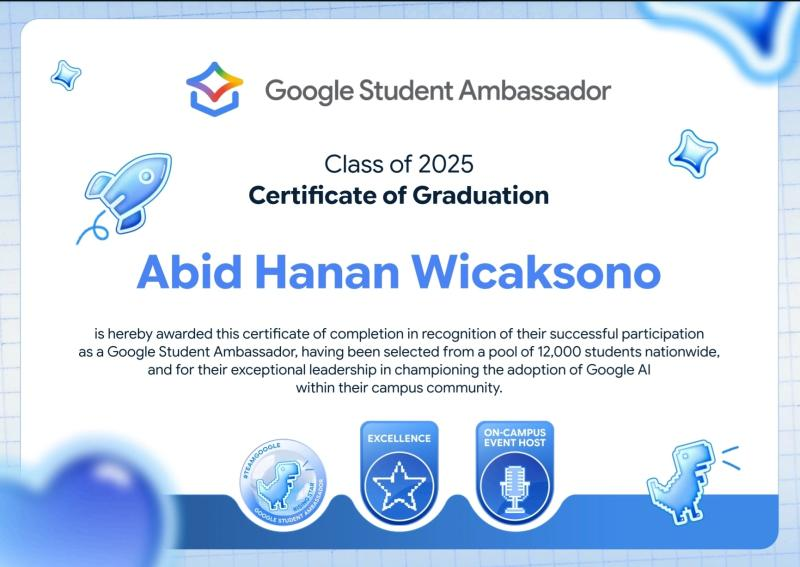
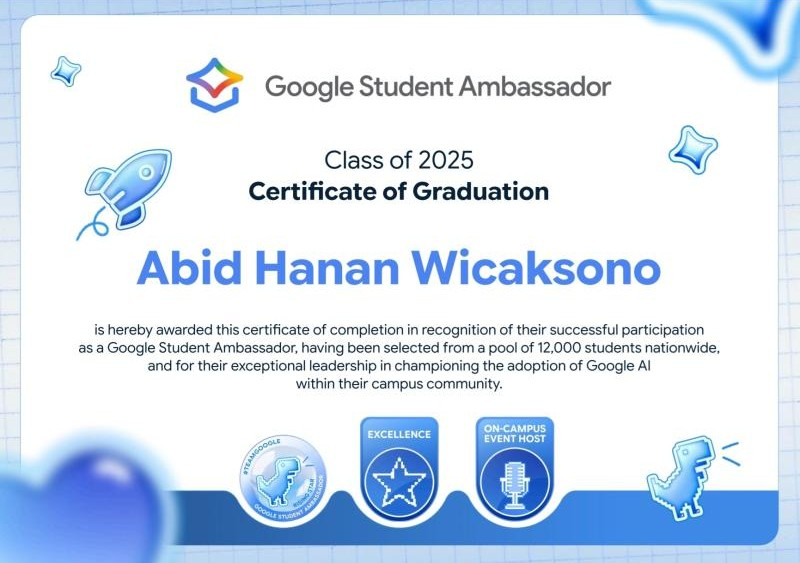
Shorten all certificate copy; fix graduation crop; re-animate on scroll
- Certificates: trim every certificate description (EN + ID) so none overflow
  the card's 3-line clamp.
- Fix the Certificate of Graduation image: crop the stray black strip along
  the top edge.
- Career: change Helden Inc, Helden HQ and Maua AI from Part-time to Contract
  (Kontrak in ID).
- Scroll reveal: toggle the animation both ways so every section's boxes
  re-animate whenever they re-enter the viewport, scrolling up or down.

diff --git a/app/lib/portfolio-data.ts b/app/lib/portfolio-data.ts
@@ -117,7 +117,7 @@ export const careerItems: CareerItem[] = [
   {
     period: "Jul 2026 - Present",
     role: "Marketing & Developer",
-    company: "Helden Inc - Part-time",
+    company: "Helden Inc - Contract",
     companyLogo: "/logo-helden-inc.png",
     desc: "Driving marketing initiatives and building digital products for Helden Inc, a studio crafting gamified experiences for internal communication, blending growth-focused campaigns with hands-on development.",
     highlights: ["Marketing", "Development", "Gamification"],
@@ -125,7 +125,7 @@ export const careerItems: CareerItem[] = [
   {
     period: "Jul 2026 - Present",
     role: "Marketing & Developer",
-    company: "Helden HQ - Part-time",
+    company: "Helden HQ - Contract",
     companyLogo: "/logo-heldenhq.svg",
     logoPadded: true,
     desc: "Supporting Helden HQ as marketing and developer, handling the technology behind trainers' businesses so they can focus on teaching, while running campaigns that grow their reach.",
@@ -134,7 +134,7 @@ export const careerItems: CareerItem[] = [
   {
     period: "Jul 2026 - Present",
     role: "Marketing & Developer",
-    company: "Maua AI - Part-time",
+    company: "Maua AI - Contract",
     companyLogo: "/logo-maua.svg",
     desc: "Working as marketing and developer at Maua AI, a team that takes over digital work, building apps and automations while driving social media growth for clients.",
     highlights: ["AI automation", "App development", "Social growth"],
@@ -233,7 +233,7 @@ export const certificateItems = [
     issued: "Issued May 2026",
     credentialId: "Associate",
     image: "/certificate-web3-university-tour-coinversity.jpg",
-    desc: "In recognition of the role as Associate for the Web3 University Tour, contributing to the successful execution of program activities and supporting the coordination of event initiatives.",
+    desc: "Associate for the Web3 University Tour, supporting program activities and event coordination.",
   },
   {
     title: "Best GPA Achievement 3.97/4.00",
@@ -242,7 +242,7 @@ export const certificateItems = [
     issued: "Issued Feb 2026",
     credentialId: "6/STF/02/2026",
     image: "/certificate-best-gpa.jpg",
-    desc: "Best GPA Achievement certificate for the Computer Science Program, Faculty of Technology, Law, and Business, Sugeng Hartono University, Odd Semester 2025/2026.",
+    desc: "Best GPA Achievement for the Computer Science Program, Sugeng Hartono University (2025/2026).",
   },
   {
     title: "Sui Developer Workshop",
@@ -251,7 +251,7 @@ export const certificateItems = [
     issued: "Certificate Workshop Completion",
     credentialId: "Modules 1-5",
     image: "/certificate-sui-workshop.jpg",
-    desc: "For successfully completing the Sui Developer Workshop modules 1-5, including foundational concepts, hands-on development, and practical implementation within the Sui ecosystem.",
+    desc: "Completed Sui Developer Workshop modules 1-5, covering core concepts and hands-on Sui development.",
   },
   {
     title: "Data Science Course",
@@ -260,7 +260,7 @@ export const certificateItems = [
     issued: "Issued Jan 2026",
     credentialId: "2026/250/57666",
     image: "/certificate-data-science-bisa-ai.jpg",
-    desc: "Data Science certificate from BISA AI Academy for completing a free class with Data Science learning material.",
+    desc: "Data Science certificate from BISA AI Academy for completing a Data Science class.",
   },
   {
     title: "IDEONIC 2026",
@@ -269,7 +269,7 @@ export const certificateItems = [
     issued: "Issued Jan 2026",
     credentialId: "Certificate of Participation",
     image: "/certificate-ideonic-2026.jpg",
-    desc: "Certificate of Participation for joining IDEONIC 2026 International Competition \"Inspiring Ideas, Shaping the Future\" organized by Mercu Buana University (UMB), Jakarta, Indonesia.",
+    desc: "Participant in IDEONIC 2026 International Competition, organized by Mercu Buana University, Jakarta.",
   },
   {
     title: "Certificate of Graduation",
@@ -278,7 +278,7 @@ export const certificateItems = [
     issued: "Google Student Ambassador",
     credentialId: "Class of 2025",
     image: "/certificate-google-student-ambassador.jpg",
-    desc: "Certificate of completion for successful participation as a Google Student Ambassador, selected from a pool of 12,000 students nationwide, and for exceptional leadership in championing the adoption of Google AI within the campus community.",
+    desc: "Google Student Ambassador, selected from 12,000 students for championing Google AI on campus.",
   },
   {
     title: "Gemini Certified Student",
@@ -287,7 +287,7 @@ export const certificateItems = [
     issued: "Issued Oct 2025",
     credentialId: "Expires Oct 2028",
     image: "/certificate-gemini-certified-student.jpg",
-    desc: "Certificate Gemini Student for having demonstrated the knowledge, skills, and basic competencies needed to use Google AI.",
+    desc: "Gemini Certified Student, demonstrating the knowledge and skills needed to use Google AI.",
   },
   {
     title: "Konco Konco Ngonten",
@@ -350,7 +350,7 @@ export const certificateItems = [
     issued: "Issued Apr 2025",
     credentialId: "Participant",
     image: "/certificate-web3-university-tour-yogyakarta.jpg",
-    desc: "Participant certificate for Web3 University Tour Yogyakarta, an educational seminar organized by Binance Academy, Tokocrypto, and Coinvestasi.",
+    desc: "Participant in Web3 University Tour Yogyakarta by Binance Academy, Tokocrypto, and Coinvestasi.",
   },
   {
     title: "Empowering Industries with AI: Strategies for the New Era of Cyber Security",
@@ -359,7 +359,7 @@ export const certificateItems = [
     issued: "Issued Dec 2024",
     credentialId: "65909926-3188-40d5-ad83-730c332585f9",
     image: "/certificate-inixindo-ai-cyber-security.jpg",
-    desc: "Certificate of Attendance for Empowering Industries with AI: Strategies for the New Era of Cyber Security.",
+    desc: "Certificate of Attendance for Empowering Industries with AI in the New Era of Cyber Security.",
   },
 ];
 

diff --git a/app/lib/i18n.ts b/app/lib/i18n.ts
@@ -286,19 +286,19 @@ const educationId: Partial<(typeof educationItems)[number]>[] = [
 const careerId: Partial<(typeof careerItems)[number]>[] = [
   {
     period: "Jul 2026 - Sekarang",
-    company: "Helden Inc - Paruh Waktu",
+    company: "Helden Inc - Kontrak",
     desc: "Menjalankan inisiatif marketing dan membangun produk digital untuk Helden Inc, studio yang menciptakan pengalaman gamifikasi untuk komunikasi internal, memadukan kampanye pertumbuhan dengan pengembangan secara langsung.",
     highlights: ["Marketing", "Pengembangan", "Gamifikasi"],
   },
   {
     period: "Jul 2026 - Sekarang",
-    company: "Helden HQ - Paruh Waktu",
+    company: "Helden HQ - Kontrak",
     desc: "Mendukung Helden HQ sebagai marketing dan developer, menangani teknologi di balik bisnis para trainer agar mereka fokus mengajar, sekaligus menjalankan kampanye untuk memperluas jangkauan.",
     highlights: ["Marketing", "Pengembangan web", "Automasi"],
   },
   {
     period: "Jul 2026 - Sekarang",
-    company: "Maua AI - Paruh Waktu",
+    company: "Maua AI - Kontrak",
     desc: "Bekerja sebagai marketing dan developer di Maua AI, tim yang mengambil alih pekerjaan digital, membangun aplikasi dan automasi sekaligus mendorong pertumbuhan media sosial klien.",
     highlights: ["Automasi AI", "Pengembangan aplikasi", "Pertumbuhan sosial"],
   },
@@ -371,37 +371,37 @@ const certificateId: Partial<(typeof certificateItems)[number]>[] = [
     issuer: "Coinversity",
     issued: "Diterbitkan Mei 2026",
     credentialId: "Associate",
-    desc: "Sebagai pengakuan atas peran sebagai Associate dalam Web3 University Tour, berkontribusi pada keberhasilan pelaksanaan kegiatan program dan mendukung koordinasi inisiatif acara.",
+    desc: "Associate untuk Web3 University Tour, mendukung pelaksanaan kegiatan program dan koordinasi acara.",
   },
   {
     title: "Indeks Prestasi Terbaik 3,97/4,00",
     issuer: "Universitas Sugeng Hartono",
     issued: "Diterbitkan Feb 2026",
-    desc: "Sertifikat Indeks Prestasi Terbaik untuk Program Studi Ilmu Komputer, Fakultas Teknologi, Hukum, dan Bisnis, Universitas Sugeng Hartono, Semester Ganjil 2025/2026.",
+    desc: "Indeks Prestasi Terbaik untuk Program Studi Ilmu Komputer, Universitas Sugeng Hartono (2025/2026).",
   },
   {
     issued: "Sertifikat Penyelesaian Workshop",
-    desc: "Berhasil menyelesaikan Sui Developer Workshop modul 1-5, termasuk konsep dasar, pengembangan langsung, dan implementasi praktis dalam ekosistem Sui.",
+    desc: "Menyelesaikan Sui Developer Workshop modul 1-5, mencakup konsep inti dan pengembangan langsung di ekosistem Sui.",
   },
   {
     issuer: "BISA AI Academy (PT BISA Artifisial Indonesia)",
     issued: "Diterbitkan Jan 2026",
-    desc: "Sertifikat Data Science dari BISA AI Academy karena telah menyelesaikan kelas gratis dengan materi Data Science.",
+    desc: "Sertifikat Data Science dari BISA AI Academy atas penyelesaian kelas Data Science.",
   },
   {
     issuer: "Universitas Mercu Buana",
     issued: "Diterbitkan Jan 2026",
-    desc: "Sertifikat partisipasi IDEONIC 2026 International Competition \"Inspiring Ideas, Shaping the Future\" yang diselenggarakan Universitas Mercu Buana (UMB), Jakarta, Indonesia.",
+    desc: "Peserta IDEONIC 2026 International Competition yang diselenggarakan Universitas Mercu Buana, Jakarta.",
   },
   {
     title: "Certificate of Graduation",
     issued: "Google Student Ambassador",
-    desc: "Sertifikat penyelesaian atas partisipasi sebagai Google Student Ambassador, terpilih dari 12.000 mahasiswa nasional, serta kepemimpinan dalam mendorong adopsi Google AI di komunitas kampus.",
+    desc: "Google Student Ambassador, terpilih dari 12.000 mahasiswa untuk mendorong adopsi Google AI di kampus.",
   },
   {
     issued: "Diterbitkan Okt 2025",
     credentialId: "Kedaluwarsa Okt 2028",
-    desc: "Sertifikat Gemini Student karena telah menunjukkan pengetahuan, keterampilan, dan kompetensi dasar untuk menggunakan Google AI.",
+    desc: "Gemini Certified Student, menunjukkan pengetahuan dan keterampilan untuk menggunakan Google AI.",
   },
   {
     issued: "Diterbitkan Agu 2025",
@@ -429,11 +429,11 @@ const certificateId: Partial<(typeof certificateItems)[number]>[] = [
   },
   {
     issued: "Diterbitkan Apr 2025",
-    desc: "Sertifikat peserta Web3 University Tour Yogyakarta, seminar edukatif yang diselenggarakan oleh Binance Academy, Tokocrypto, dan Coinvestasi.",
+    desc: "Peserta Web3 University Tour Yogyakarta oleh Binance Academy, Tokocrypto, dan Coinvestasi.",
   },
   {
     issued: "Diterbitkan Des 2024",
-    desc: "Sertifikat kehadiran untuk acara Empowering Industries with AI: Strategies for the New Era of Cyber Security.",
+    desc: "Sertifikat kehadiran Empowering Industries with AI di era baru cyber security.",
   },
 ];
 

diff --git a/app/components/scroll-reveal-controller.tsx b/app/components/scroll-reveal-controller.tsx
@@ -45,10 +45,13 @@ export function ScrollRevealController() {
     const observer = new IntersectionObserver(
       (entries) => {
         for (const entry of entries) {
+          const element = entry.target as HTMLElement;
+          // Toggle both ways so every box re-animates whenever it re-enters
+          // the viewport, whether scrolling down or back up.
           if (entry.isIntersecting) {
-            const element = entry.target as HTMLElement;
             element.classList.add("is-revealed");
-            observer.unobserve(element);
+          } else {
+            element.classList.remove("is-revealed");
           }
         }
       },
@@ -59,9 +62,7 @@ export function ScrollRevealController() {
     );
 
     for (const element of revealElements) {
-      if (!element.classList.contains("is-revealed")) {
-        observer.observe(element);
-      }
+      observer.observe(element);
     }
 
     return () => {
